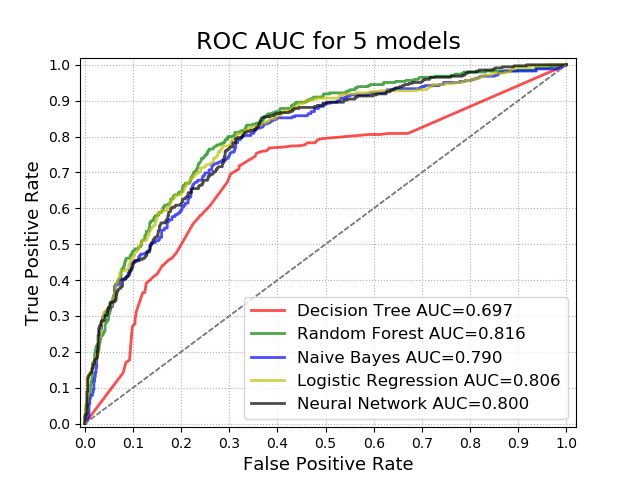
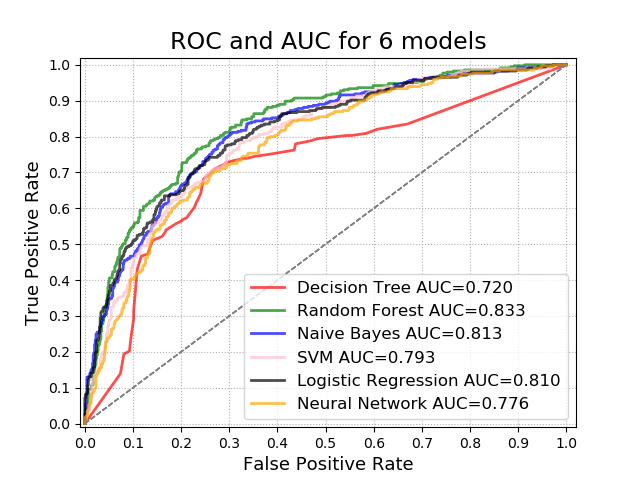
add K fold

diff --git a/ML_fp/sk_all.py b/ML_fp/sk_all.py
@@ -22,6 +22,7 @@ import pandas as pd
 import numpy as np
 from sklearn import metrics
 from sklearn.preprocessing import label_binarize
+from sklearn.metrics import make_scorer, accuracy_score, precision_score, recall_score, f1_score
 
 
 def draw(name, model, y_bin, test, cl):
@@ -65,23 +66,16 @@ def print_matrix(name, model, test, test_target):
 fea = ['Choose hometown or travel', 'job', 'back home frequency', 'location of work (school)', 'hometown location', 'distance between the above two', 'interpersonal relationship', 'family relationship', 'gender', 'financial situation(income)', 'have boy/girlfriend/husband/wife']
 
 train = pd.read_csv('tran.csv')
-train = train.sample(frac=1).reset_index(drop = True) #shuffle
+#train = train.sample(frac=1).reset_index(drop = True) #shuffle
 train.replace(np.nan, 23, inplace=True)
 for col in fea:
     train[col].replace(["?"],  [train[col].mode()], inplace = True)   #deal with missing
 delete =  train[train['Choose hometown or travel'] == 'travel'].index
 #train.drop(delete, inplace = True)
+#train = train.reset_index(drop = True)
 #train = train.drop('Choose hometown or travel', axis = 1)
-fea = ['Choose hometown or travel','age', 'job', 'back home frequency', 'location of work (school)', 'hometown location', 'distance between the above two', 'interpersonal relationship', 'family relationship', 'gender', 'financial situation(income)', 'have boy/girlfriend/husband/wife']
-
-le = preprocessing.LabelEncoder()
-for col in fea:   #transform to numeric data
-    encode_col = le.fit_transform(train[col])
-    train[col] = encode_col
-train['transportation'].replace(['train bus or ship'], [0], inplace = True)
-train['transportation'].replace(['HSR or airplane'], [1], inplace = True)
-train['transportation'].replace(['drive or ride by yourself'], [2], inplace = True)
-
+fea = ['Choose hometown or travel', 'job', 'back home frequency', 'location of work (school)', 'hometown location', 'distance between the above two', 'interpersonal relationship', 'family relationship', 'gender', 'financial situation(income)', 'have boy/girlfriend/husband/wife']
+'''
 for i in range(len(train)):
     if(train.iat[i, 1] < 18): train.iat[i, 1] = 0
     elif(train.iat[i, 1] >= 18 and train.iat[i, 1] < 22): train.iat[i, 1] = 1
@@ -90,24 +84,19 @@ for i in range(len(train)):
     elif(train.iat[i, 1] >= 30 and train.iat[i, 1] < 35): train.iat[i, 1] = 4
     elif(train.iat[i, 1] >= 35 and train.iat[i, 1] < 40): train.iat[i, 1] = 5
     else: train.iat[i, 1] = 6
-    
+'''
+le = preprocessing.LabelEncoder()
+for col in fea:   #transform to numeric data
+    encode_col = le.fit_transform(train[col])
+    train[col] = encode_col
+train['transportation'].replace(['train bus or ship'], [0], inplace = True)
+train['transportation'].replace(['HSR or airplane'], [1], inplace = True)
+train['transportation'].replace(['drive or ride by yourself'], [2], inplace = True)
+
 train_all = train.copy()
 train_all = train_all.drop(columns = 'transportation')
 test_all = train['transportation']
-#test_all = label_binarize(test_all, classes=[0, 1, 2])
-#train, test, target, test_target = model_selection.train_test_split(train_all, test_all, test_size=0.30, random_state=100)
-#result_k0 = model_selection.cross_val_score(model0, train_all, test_all, cv = kfold)
-#result_k1 = model_selection.cross_val_score(model1, train_all, test_all, cv = kfold)
-#result_k2 = model_selection.cross_val_score(model2, train_all, test_all, cv = kfold)
-#result_k3 = model_selection.cross_val_score(model3, train_all, test_all, cv = kfold)
-#result_k4 = model_selection.cross_val_score(model4, train_all, test_all, cv = kfold)
-#test_all = label_binarize(test_all,classes=[0,1,2])
-'''n_classes = test_all.shape[1]
 
-random_state = np.random.RandomState(0)
-n_samples, n_features = train_all.shape
-train_all = np.c_[train_all,random_state.randn(n_samples,200 * n_features)]
-'''
 train, test, target, test_target = train_test_split(train_all, test_all, test_size=0.30, random_state=0)
 n_class = 3
 y_bin = label_binarize(test_target, np.arange(n_class))
@@ -127,4 +116,12 @@ for i in range(6):
     print_matrix(name[i], model[i], test, test_target)
     draw(name[i], model[i], y_bin, test, color[i])
 #print(roc_auc_score(test_target, y_pred_proba))
+
+results = []
+kfold = KFold(n_splits=10, random_state = 42, shuffle = True)
+print('K-fold for K = 10')
+for i in range(6):
+    results.append(model_selection.cross_val_score(model[i], train_all, test_all, cv = kfold))
+    print(name[i], 'Accuracy : ',results[i].mean())
+
 plt.show()
